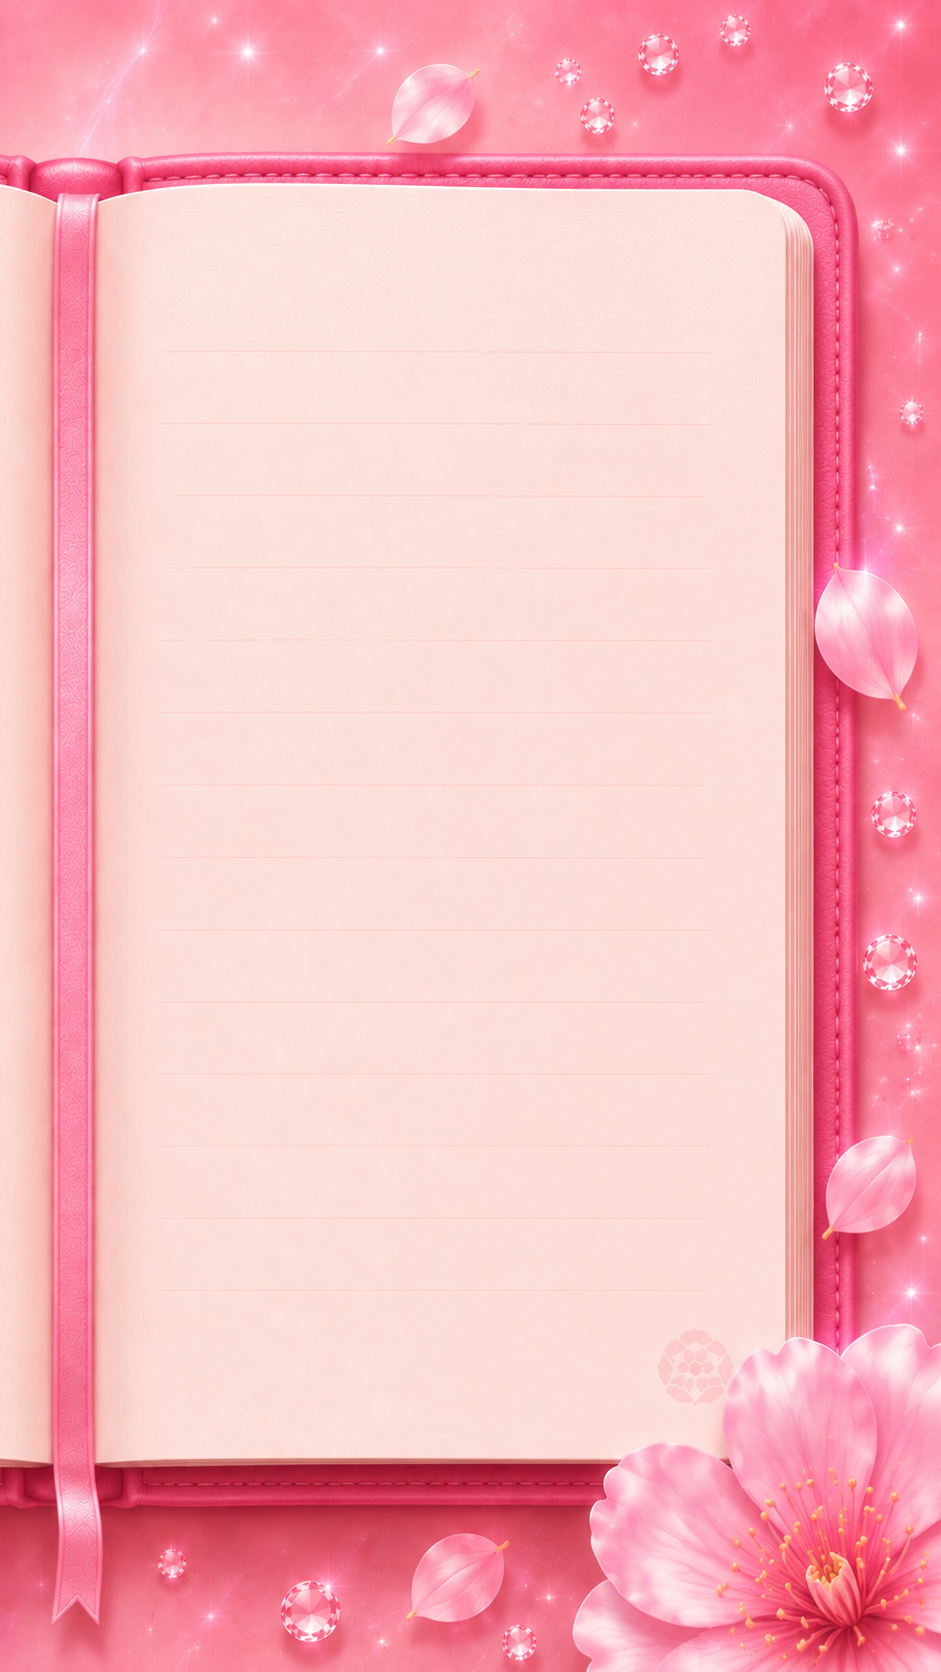
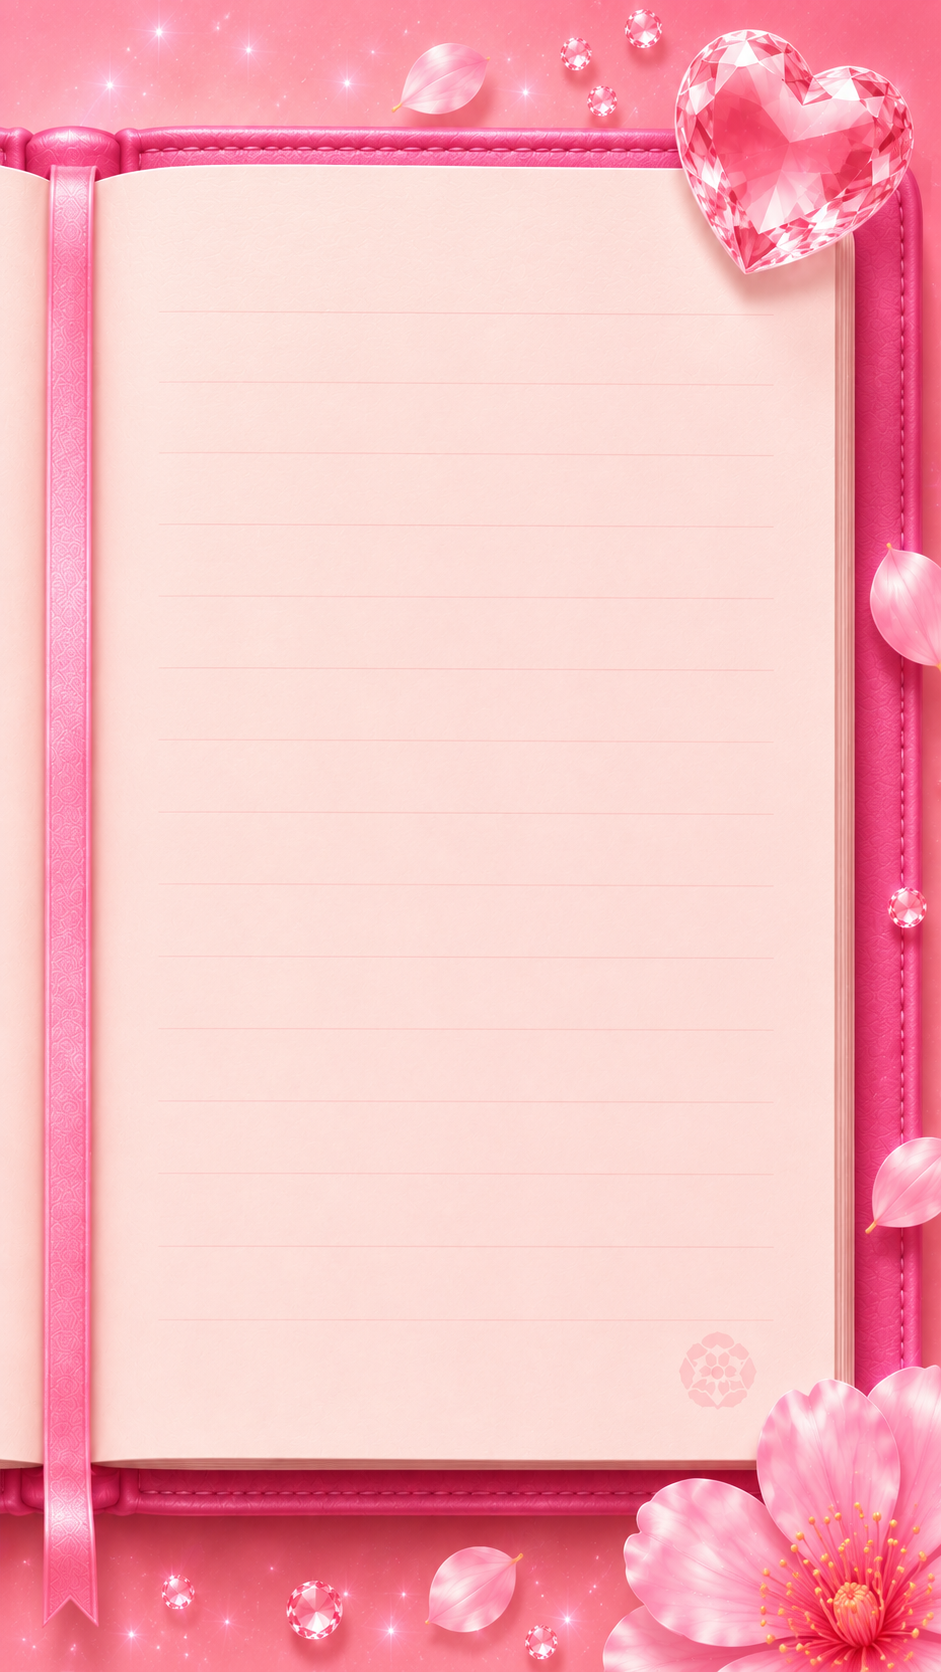
feat: new lined notebook image + blank page flip + corrected overlay positions
- Replace dreamy-book-mobile.png with new lined pink diary image (hearts/flowers)
- Phone: aspect-ratio 9/16, image at 125% right-anchored crops left binding;
  overlay top:14% left:5% right:13% height:72% aligns with the lined page area
- Tablet: overlay top:14% left:18% right:12% height:71% for the new image
- Allow 5 blank pages beyond existing entries (canFlipForward, flip bounds)
  so touch-swiping past the last diary entry shows empty lined pages
- Blank pages show empty date/title/body; only page number advances
- Touch flip works via existing onPointerDown/Move/Up unified handler

https://claude.ai/code/session_01H9rYbkvuuGmKAUXivQ4W6X

Changed region(s): [[0.0, 0.0, 1.0, 1.0], [0.1541, 0.0, 0.1849, 0.0311]]

diff --git a/src/pages/app.tools.diary.tsx b/src/pages/app.tools.diary.tsx
@@ -375,43 +375,43 @@ const JOURNAL_STYLES = `
   .diary-flip-arrow:hover:not(:disabled) { background: rgba(255,180,210,0.92); transform: translateY(-50%) scale(1.1); }
   .diary-flip-arrow:active:not(:disabled) { transform: translateY(-50%) scale(0.93); }
   .diary-flip-arrow:disabled { opacity: 0.22; cursor: default; }
-  /* ── Phone: crop to right page, fill container edge-to-edge ── */
+  /* ── Phone: fill section, show only right cream page ── */
   @media (max-width: 767px) {
     .diary-book-wrap {
       overflow: hidden;
-      aspect-ratio: 9 / 14;
+      aspect-ratio: 9 / 16;
     }
     .diary-book-desktop { display: none !important; }
     .diary-book-mobile {
       display: block !important;
       position: absolute;
       right: 0; top: 0;
-      width: 145%;
+      width: 125%;
       height: 100%;
       object-fit: cover;
       object-position: right top;
     }
     .diary-left-page { display: none !important; }
     .diary-right-page {
-      top: 9% !important;
-      left: 4% !important;
-      right: 15% !important;
+      top: 14% !important;
+      left: 5% !important;
+      right: 13% !important;
       width: auto !important;
-      height: 82% !important;
-      padding: 3% 3% 2% 3% !important;
+      height: 72% !important;
+      padding: 2% 3% 2% 3% !important;
     }
   }
-  /* ── Tablet: show full mobile image without cropping ── */
+  /* ── Tablet: same image, full display ── */
   @media (min-width: 768px) and (max-width: 1023px) {
     .diary-book-desktop { display: none !important; }
     .diary-book-mobile  { display: block !important; }
     .diary-left-page { display: none !important; }
     .diary-right-page {
-      top: 9% !important;
-      left: 22% !important;
-      right: 5% !important;
+      top: 14% !important;
+      left: 18% !important;
+      right: 12% !important;
       width: auto !important;
-      height: 73% !important;
+      height: 71% !important;
       padding: 2% 3% 2% 3% !important;
     }
   }
@@ -449,8 +449,9 @@ function OpenJournal({
   const todayEntry = entries.find((e) => e.date === todayISO_);
   const pastEntries = entries.filter((e) => e.date !== todayISO_);
 
+  const BLANK_PAGES = 5; // extra blank pages beyond existing entries
   const isToday = pageIndex === 0;
-  const canFlipForward = pageIndex < pastEntries.length;
+  const canFlipForward = pageIndex < pastEntries.length + BLANK_PAGES;
   const canFlipBack = pageIndex > 0;
 
   pageIndexRef.current = pageIndex;
@@ -464,8 +465,8 @@ function OpenJournal({
     new Date(iso + "T00:00:00").toLocaleDateString("en-US", { weekday: "long", day: "numeric", month: "long" });
   const todayLabel = new Date().toLocaleDateString("en-US", { weekday: "long", day: "numeric", month: "long" });
 
-  const rightDateLabel = isToday ? todayLabel : (currentEntry ? fmtLong(currentEntry.date) : todayLabel);
-  const leftDateLabel  = pageIndex === 0 ? todayLabel : (leftEntry ? fmtLong(leftEntry.date) : todayLabel);
+  const rightDateLabel = isToday ? todayLabel : (currentEntry ? fmtLong(currentEntry.date) : "");
+  const leftDateLabel  = pageIndex === 0 ? todayLabel : (leftEntry ? fmtLong(leftEntry.date) : "");
 
   // Clear hint animation once
   useEffect(() => {
@@ -514,7 +515,7 @@ function OpenJournal({
 
   const flip = (dir: 1 | -1) => {
     const next = pageIndexRef.current + dir;
-    if (next < 0 || next > pastEntries.length) return;
+    if (next < 0 || next > pastEntries.length + BLANK_PAGES) return;
     setHintDone(true);
     setFlipClass("bk-flip-out");
     setTimeout(() => {